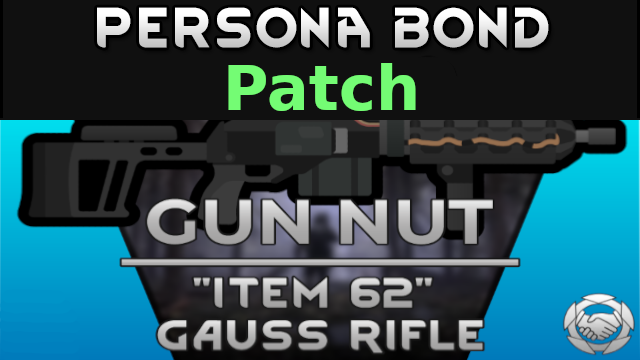
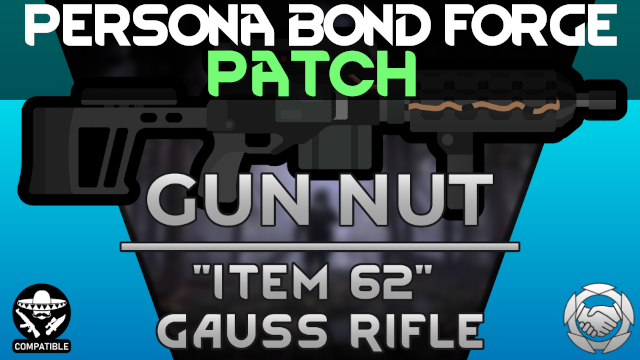
Update Preview.png and README.md

diff --git a/README.md b/README.md
@@ -2,6 +2,14 @@
 
 ![](https://github.com/Daria40K/Persona-Bond-Patch-for-Gun-Nut-Gauss-Rifle/blob/main/About/Preview.png)
 
+## Required Mods
+- [Persona Bond Forge](https://steamcommunity.com/workshop/filedetails/?id=2178003816) (Steam)
+- [[HRK] Gun Nut - "Item 62" Gauss Rifle](https://steamcommunity.com/sharedfiles/filedetails/?id=2423495653) (Steam)
+
+## Download
+- [Steam](https://steamcommunity.com/sharedfiles/filedetails/?id=2791888444)
+- [GitHub](https://github.com/Daria40K/Persona-Bond-Patch-for-Gun-Nut-Gauss-Rifle/releases)
+
 ## Weapons Patch
 - Item 62 Mk.I
 - Item 62 Mk.II
